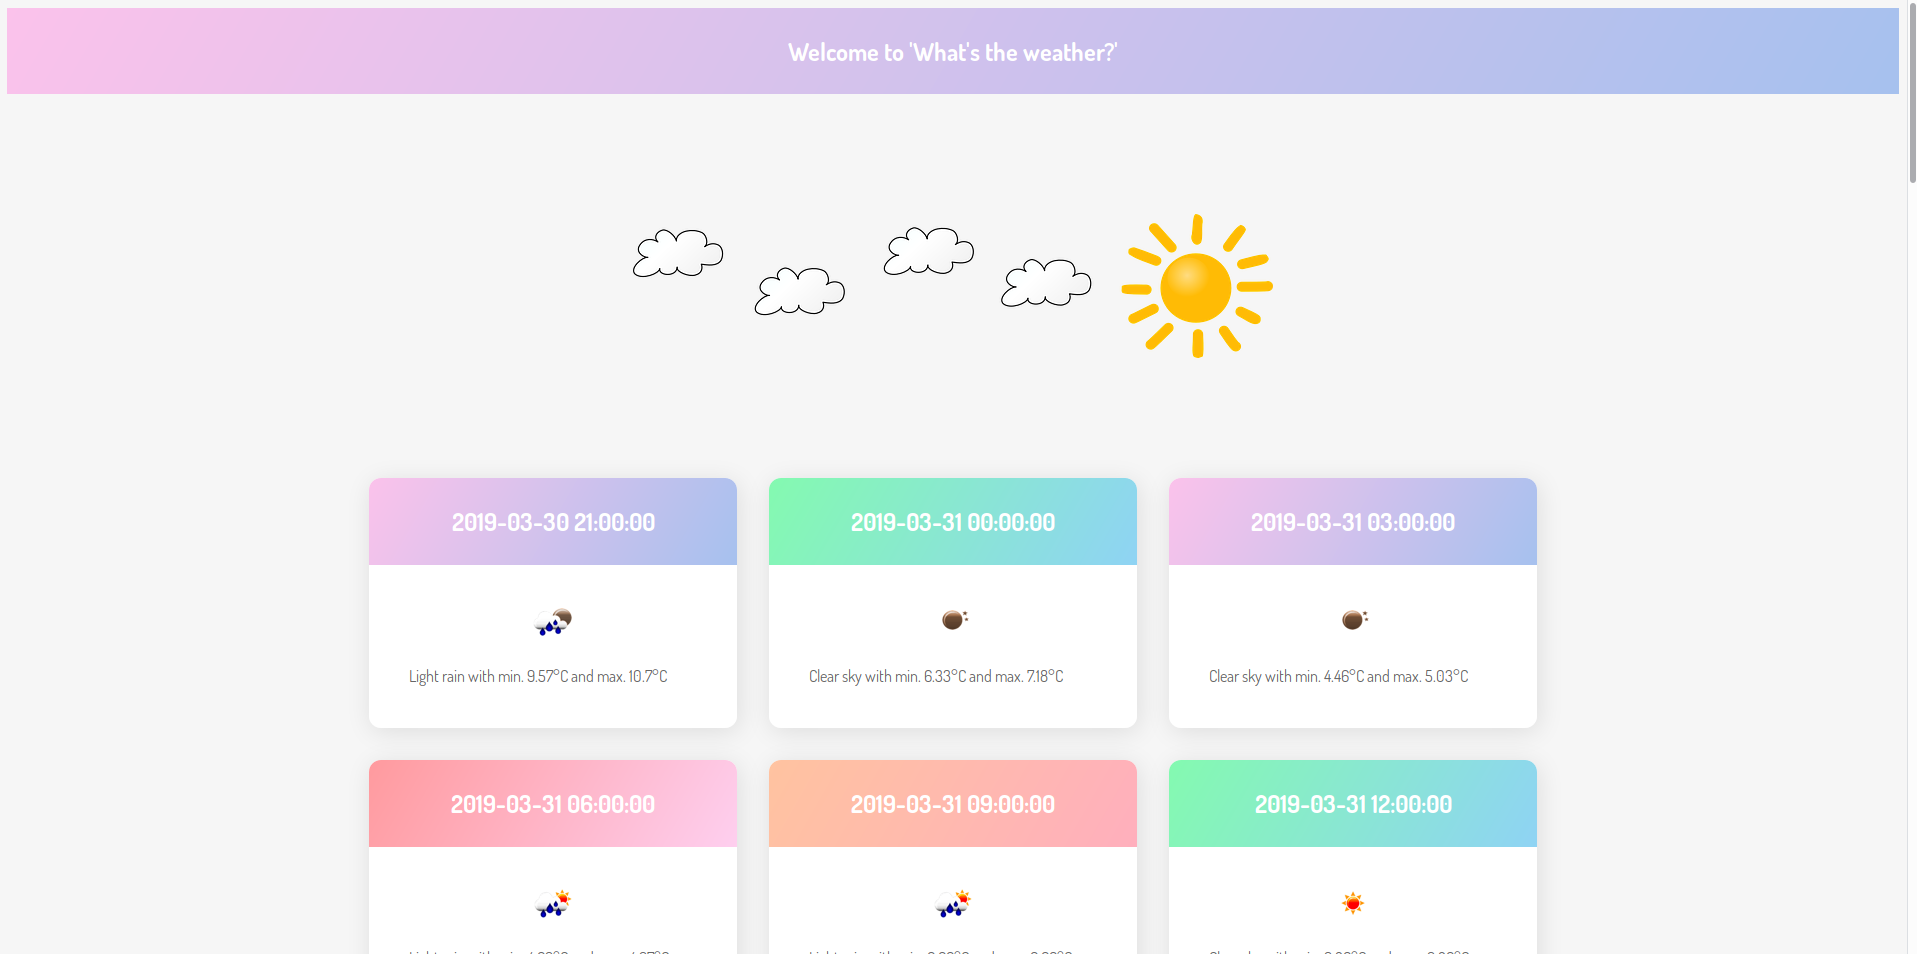
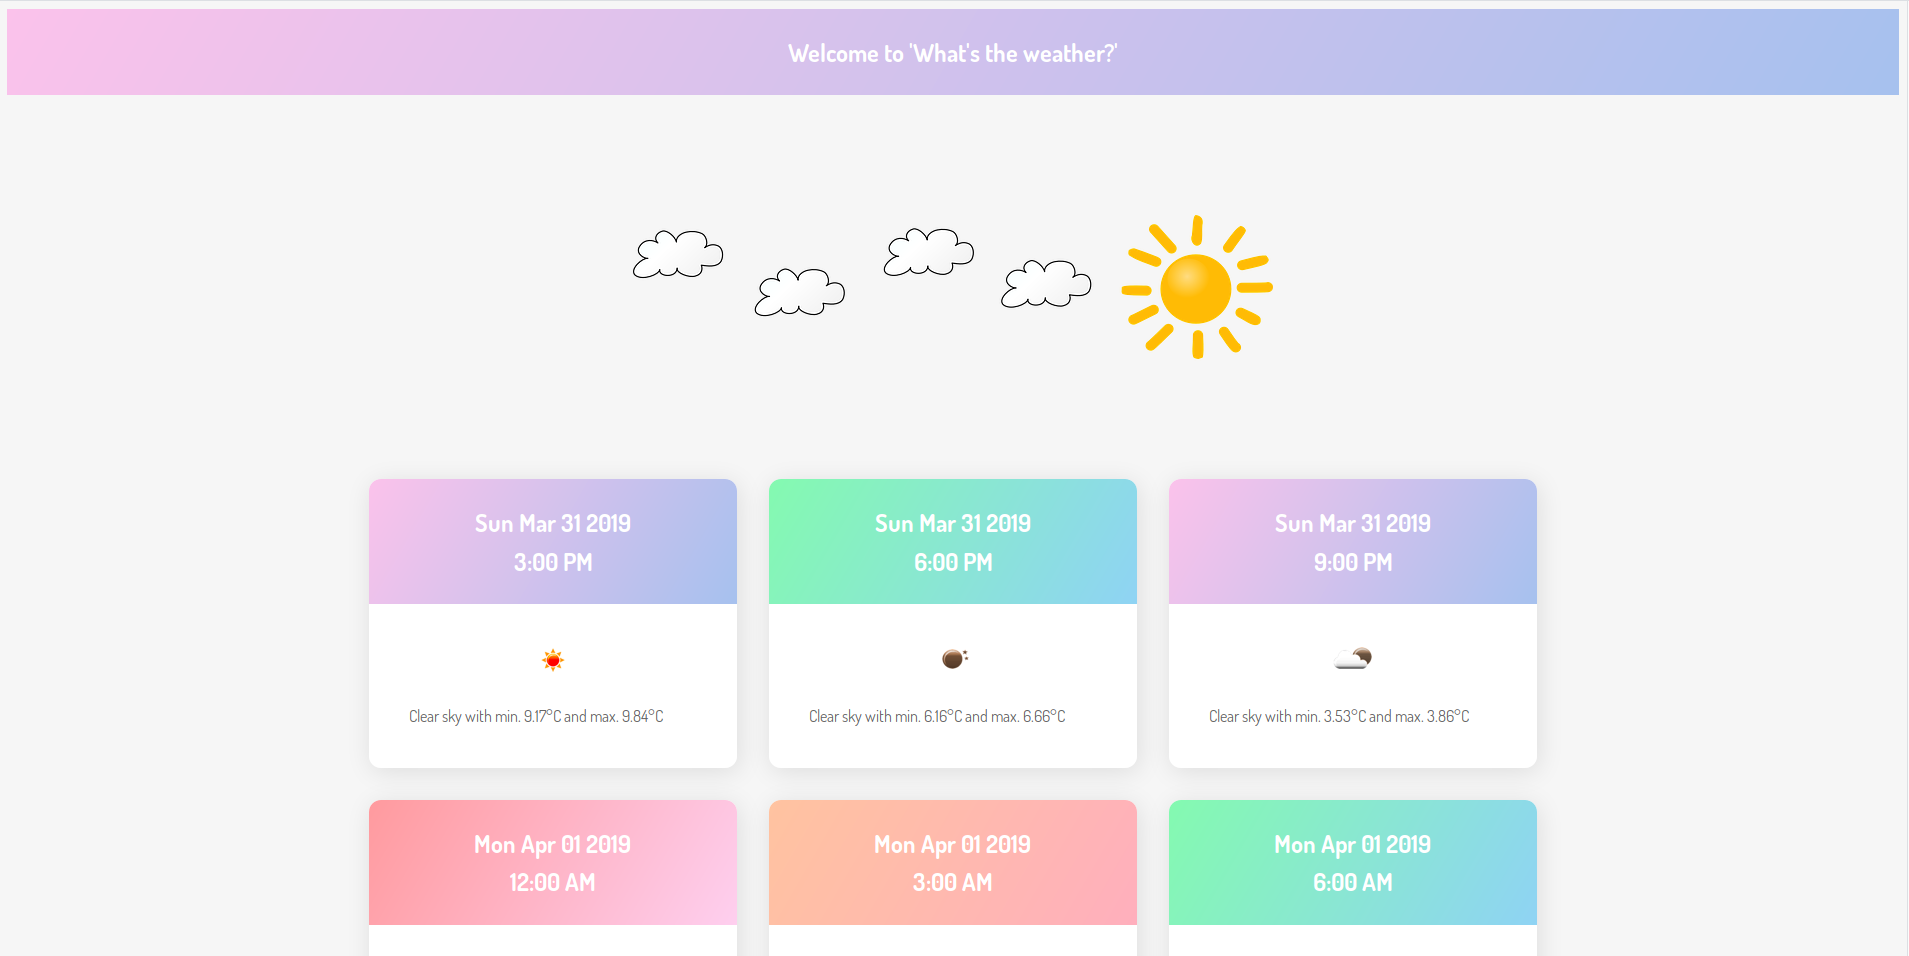
Print date and time more nicely, update demo image

diff --git a/scripts/main.js b/scripts/main.js
@@ -1,4 +1,5 @@
 var city = prompt("Please enter your city: ")
+
 var request = new XMLHttpRequest();
 request.open('GET', `https://api.openweathermap.org/data/2.5/forecast?q=${city}
              &units=metric&appid=${config.apiKey}`, true)
@@ -11,7 +12,13 @@ request.onload = function () {
             card.setAttribute('class', 'card')
 
             const h1 = document.createElement('h1')
-            h1.textContent = weather.dt_txt
+            // Print date more nicely
+            var d = new Date(weather.dt_txt)
+            h1.innerHTML = d.toDateString() + '<br />' +
+                d.toLocaleTimeString([], {
+                    hour: '2-digit',
+                    minute: '2-digit'
+                })
 
             const img = document.createElement('img')
             img.setAttribute('src', 'http://openweathermap.org/img/w/' +
@@ -20,7 +27,7 @@ request.onload = function () {
             const p = document.createElement('p')
             p.textContent =
                 // Capitalize first letter of weather description
-                // appends the rest to get complete description 
+                // Append the rest to get complete description 
                 `${weather.weather[0].description}`.charAt(0).toUpperCase() +
                 `${weather.weather[0].description} `.slice(1) +
                 `with min. ${weather.main.temp_min}°C and ` +
